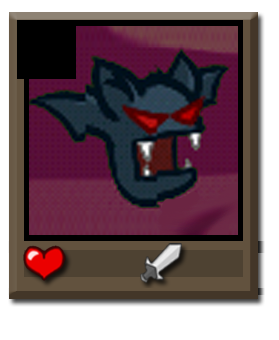
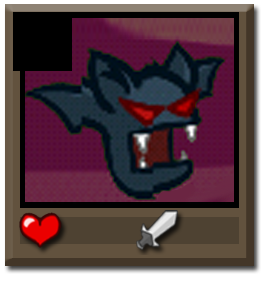
update monster

diff --git a/xun/Monster.js b/xun/Monster.js
@@ -1,10 +1,15 @@
 goog.provide('xun.Monster');
 
-xun.Monster = function() {
-	this.life = '';
-	this.attack = '';
-	this.type = '';
+xun.Monster = function(type) {
+	lime.Sprite.call(this);
+
+	this.life = 60;
+	this.attack = 3;
+	this.type = type;
+	
+	
 };
+goog.inherits(xun.Card, lime.Sprite);
 
 xun.Monster.prototype.getLife = function(){
 	return this.life;
@@ -32,4 +37,33 @@ xun.Monster.prototype.setAttack = function(attack){
 
 xun.Monster.prototype.dropLife = function(amount){
 	this.life -= amount;
+	refresh();
 }
+
+
+xun.Monster.prototype.init = function(){
+	var layer = new lime.Layer();
+	var card = new lime.Sprite().setFill('assets/' + this.type + '.png').setPosition(0, 0).setAnchorPoint(0, 0);
+	this.lifeLabel = new lime.Label(this.life).setPosition(80, 250).setAnchorPoint(0, 0)
+		.setFontColor("#DDDDDD").setFontSize(40);
+	this.attackLabel = new lime.Label(this.attack).setPosition(194, 250).setAnchorPoint(0, 0)
+		.setFontColor("#DDDDDD").setFontSize(40);
+	var expbg = new lime.Sprite().setFill("#fff").setSize(59, 59).setPosition(17, 20).setAnchorPoint(0, 0);
+	this.expLabel = new lime.Label(this.exp).setPosition(34, 25).setAnchorPoint(0, 0)
+		.setFontColor("#DDDDDD").setFontSize(40);
+
+	layer.appendChild(card);
+	layer.appendChild(this.lifeLabel);
+	layer.appendChild(this.attackLabel);
+	layer.appendChild(this.expLabel);	
+		
+	layer.setPosition(634, 24).setAnchorPoint(0, 0);
+	
+	this.appendChild(layer);
+};
+
+xun.Monster.prototype.refresh = function(){
+	this.lifeLabel.setText(this.life);
+	this.attackLabel.setText(this.attack);
+	this.expLabel.setText(this.exp);
+};

diff --git a/xun/xuntest.js b/xun/xuntest.js
@@ -1,0 +1,45 @@
+//set main namespace
+goog.provide('xuntest');
+
+//get requirements
+goog.require('lime.Director');
+goog.require('lime.Scene');
+goog.require('lime.Layer');
+goog.require('lime.Circle');
+goog.require('lime.Label');
+goog.require('lime.GlossyButton');
+goog.require('lime.animation.Spawn');
+goog.require('lime.animation.FadeTo');
+goog.require('lime.animation.ScaleTo');
+goog.require('lime.animation.MoveTo');
+goog.require('xun.Monster');
+
+// entrypoint
+xuntest.start = function() {
+
+	xuntest.director = new lime.Director(document.body, 200, 200);
+
+	var scene = new lime.Scene(),
+		layer = new lime.Layer();
+
+	scene.appendChild(layer);
+
+	//var game = new xun.Game(mode);
+	//layer.appendChild(game);	
+    
+    var monster = new xun.Monster('monster');
+    layer.appendChild(monster);
+	xuntest.director.replaceScene(scene);
+	
+	goog.events.listen(monster, ['mousedown', 'touchstart'], function(){
+		monster.dropLife();
+	});	
+
+
+	xuntest.director.makeMobileWebAppCapable();
+	// set current scene active
+	xuntest.director.replaceScene(scene);
+};
+
+//this is required for outside access after code is compiled in ADVANCED_COMPILATIONS mode
+goog.exportSymbol('xuntest.start', xuntest.start);

diff --git a/xun/xuntest.html b/xun/xuntest.html
@@ -1,0 +1,12 @@
+<!DOCTYPE HTML>
+
+<html>
+<head>
+	<title>xun</title>
+	<script type="text/javascript" src="../limejs/closure/closure/goog/base.js"></script>
+	<script type="text/javascript" src="xuntest.js"></script>
+</head>
+
+<body onload="xuntest.start()"></body>
+
+</html>
